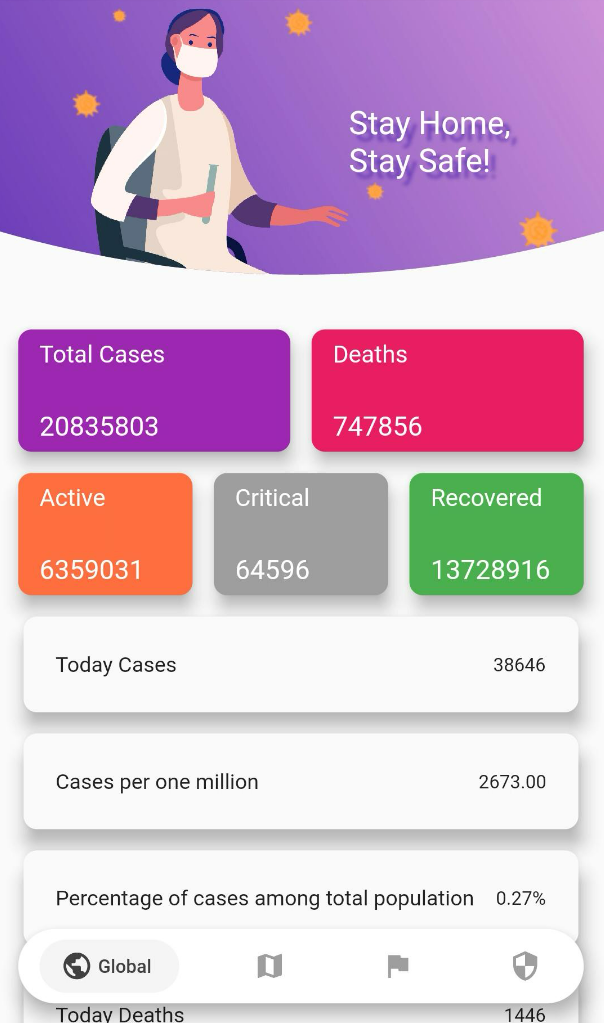
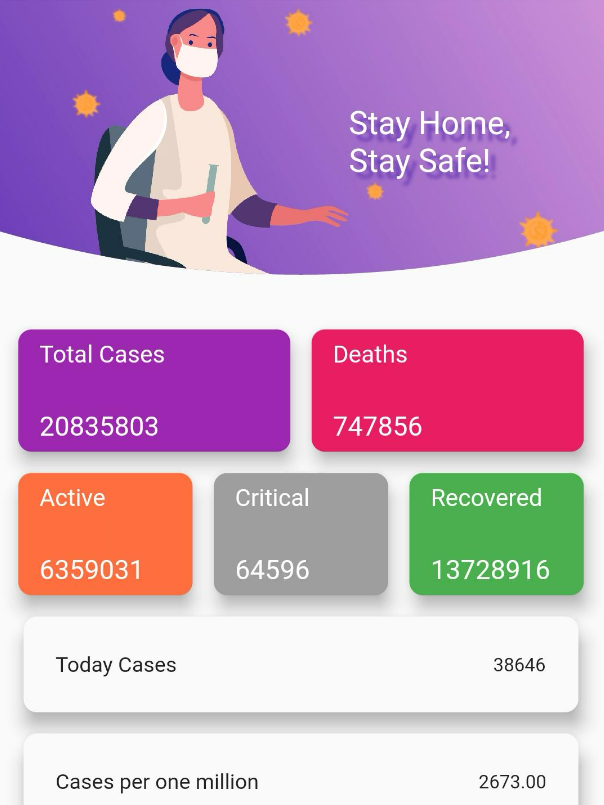
Add medium width breakpoint

diff --git a/src/scss/global.scss b/src/scss/global.scss
@@ -6,6 +6,7 @@
     --clr-accent: #C9C9C9;
     --clr-accent-2: #FFD6D6;
     --unit: 1rem;
+    --header-height: 8vh;
     --small-breakpoint: 30rem;
     --medium-breakpoint: 45rem;
     --large-brteakpoint: 60rem;
@@ -34,8 +35,7 @@ section {
     overflow-y: auto;
 
     &.has-header {
-        height: 92vh;
-        height: 92svh;
+        height: calc(100vh - var(--header-height));
     }
 
     &.center {
@@ -130,6 +130,19 @@ a {
     border-bottom: 2px solid var(--clr-secondary-2);
 }
 
+.align-center {
+    text-align: center;
+}
+
 @media screen and (min-width: 45rem) {
-    
+    :root {
+        --breakpoint: var(--medium-breakpoint);
+    }
+
+    .grid {
+        display: grid;
+        grid-template-columns: repeat(2, 1fr);
+        gap: calc(var(--unit) * 2);
+        align-items: center;
+    }
 }
